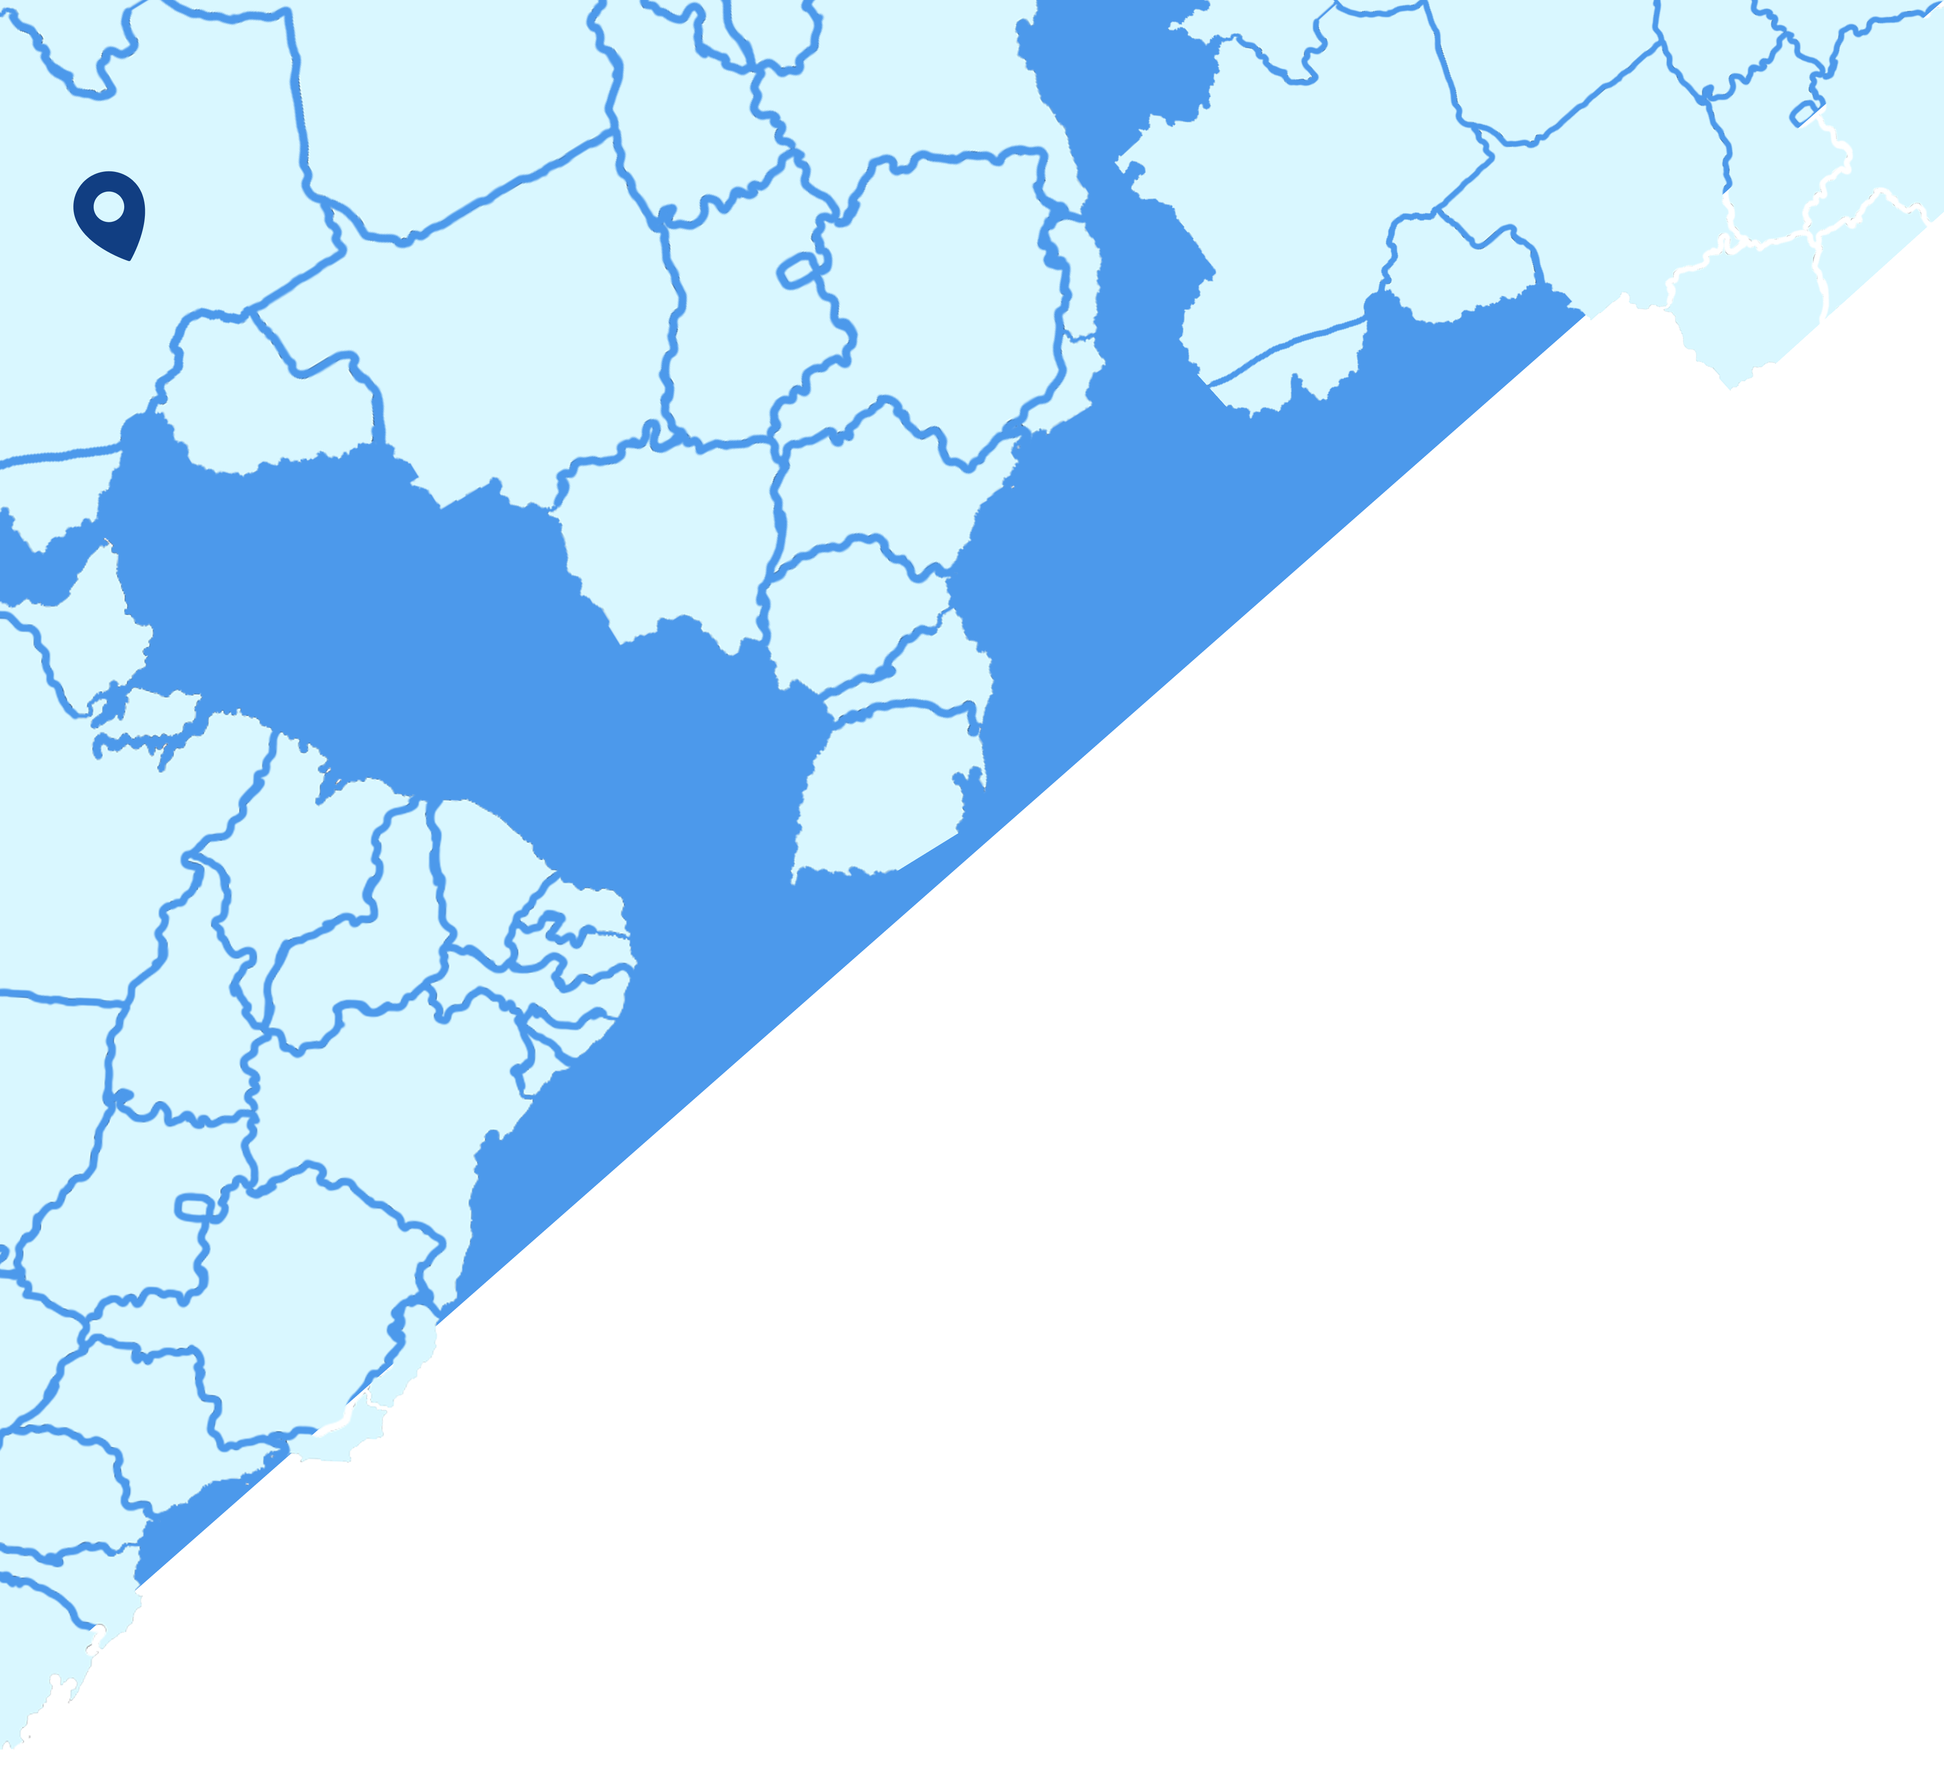
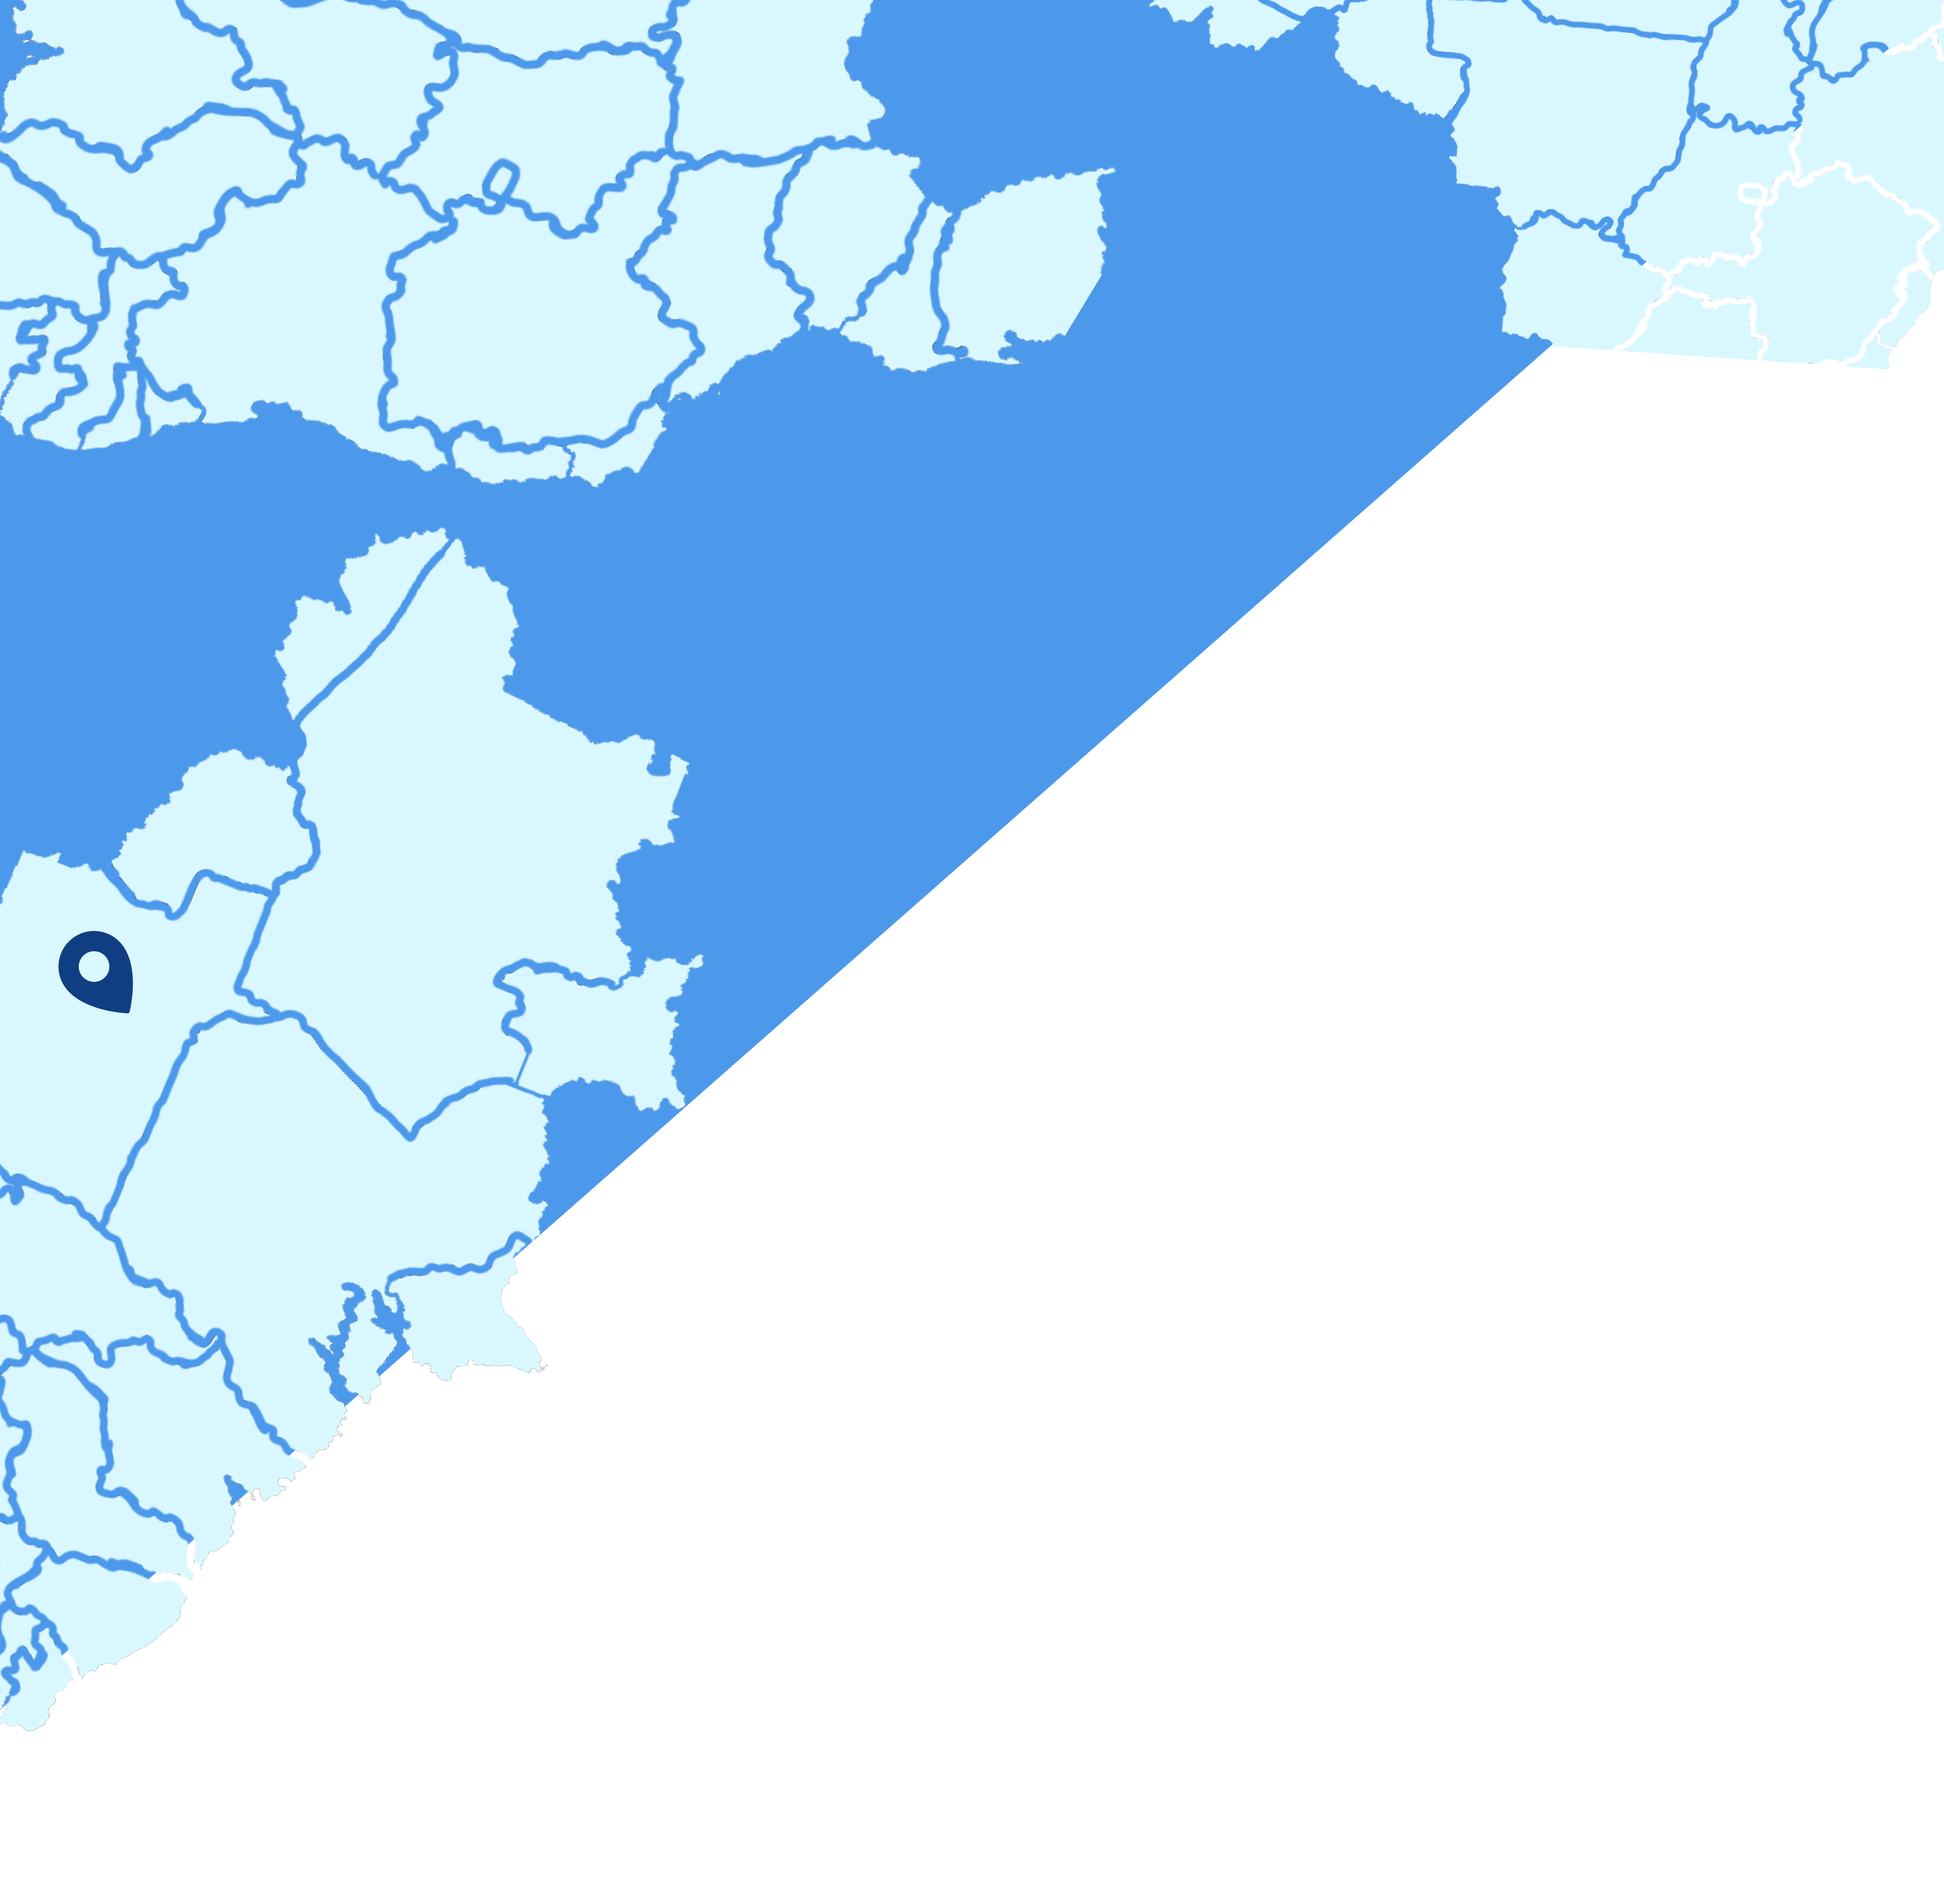
:recycle: refactor: Arrumando e reaproveitando partes da tela Login

Changed region(s): [[0.0, 0.0, 1.0, 0.9987], [0.1875, 0.0, 0.25, 0.0624]]

diff --git a/ServSegFacilities/src/app/login/index.tsx b/ServSegFacilities/src/app/login/index.tsx
@@ -1,59 +1,114 @@
-import React, { useState } from "react";
-import { Alert, Button, Image, StyleSheet, Text, TextInput, View } from "react-native";
-import { H1, H2, Input } from "../../constants/theme";
+import React, { useEffect, useRef, useState } from "react";
+import { Alert, Animated, Pressable, StyleSheet, Text, TextInput, View } from "react-native";
+import { Colors, Font, H1, H2 } from "../../constants/theme";
 
-import Logo from '../../../assets/imgs/ServSeg Escuro.svg'
+import Logo from '../../../assets/imgs/ServSeg Escuro.svg';
+import Biometria from '../../../assets/icons/Biometria.svg';
+import { styles as buttonStyles } from "./login.styles";
 import { useAuth } from "../../contexts/AuthContext";
 import { useRouter } from "expo-router";
-import { autenticacaoService } from "../../services/autenticacaoService";
 
-export default function Login () {
-    const { login } = useAuth();
+const BACKGROUND_IMAGES = [
+    require('../../../assets/imgs/Mapa1.png'),
+    require('../../../assets/imgs/Mapa2.png'),
+];
+
+export default function Login() {
+    //? consts para a animação das imagens.
+    const [currentImageIndex, setCurrentImageIndex] = useState(0);
+    const fadeAnim = useRef(new Animated.Value(1)).current;
+
+    //? consts para o consumo da API.
+    const {login} = useAuth();
     const [email, setEmail] = useState("");
     const [senha, setSenha] = useState("");
     const router = useRouter();
-    
+
     async function acessar(){
-        router.push("/") //! LEMBRAR DE TROCAR DEPOIS
         const emailDigitado = email.trim();
         const senhaDigitada = senha.trim();
 
-        if(emailDigitado || !senhaDigitada){
-            Alert.alert("Login inválido!", "Preencha o e-mail e a senha corretamente.")
+        if(!emailDigitado || !senhaDigitada){
+            Alert.alert("Login Inválido!", "Preencha o e-mail e a senha corretamente.");
             return;
         }
 
         try{
-            await autenticacaoService.login({email: emailDigitado, senha: senhaDigitada})
-            router.replace("/") //! LEMBRAR DE TROCAR DEPOIS
-        } catch(error){
-            Alert.alert("Login inválido!", "E-mail ou senha inválidos.")
+            await login({email: emailDigitado, senha: senhaDigitada})
+            router.replace("/listaRegistro")
+        }catch(error){
+            Alert.alert("Login Inválido!", "E-mail ou senha incorretos/inválidos.");
         }
     }
+
+    //? Controle da animação.
+    useEffect(() => {
+        const interval = setInterval(() => {
+            Animated.timing(fadeAnim, {
+                toValue: 0,
+                duration: 250,
+                useNativeDriver: true,
+            }).start(() => {
+                setCurrentImageIndex((prevIndex) => (prevIndex + 1) % BACKGROUND_IMAGES.length);
+                Animated.timing(fadeAnim, {
+                    toValue: 1,
+                    duration: 500,
+                    useNativeDriver: true,
+                }).start();
+            });
+        }, 3000);
+        return () => clearInterval(interval);
+    }, [fadeAnim]);
+
     return (
-        <View style={{ flex: 1, position: 'relative'}}>
-            <Image source={require('../../../assets/imgs/Mapa1.png')}
-            style={{ width: '100%', height: 375, position: 'absolute' }} resizeMode="contain"/>
-            <View style={styles.logo}>
-                <Logo width={150} />
+        <View style={{ flex: 1, position: 'relative' }}>
+            <Animated.Image
+                source={BACKGROUND_IMAGES[currentImageIndex]}
+                style={{ width: '100%', height: 400, position: 'absolute', opacity: fadeAnim }}
+                resizeMode="cover"
+            />
+            <View style={localStyles.logo}>
+                <Logo width={150} style={{ marginBottom: -100 }} />
                 <Text style={H1}>ServSeg Facilities</Text>
             </View>
-            <View>
-                <Text style={H2}>E-Mail</Text>
-                <TextInput style={Input} placeholder="email@email.com"
-                value={email} onChangeText={setEmail} keyboardType="email-address"/>
-                <Text style={H2}>Senha</Text>
-                <TextInput style={Input} placeholder="********"
-                value={senha} onChangeText={setSenha}/>
+            <View style={localStyles.espacamento}>
+                <Text style={[H2, localStyles.h2]}>E-Mail</Text>
+                <TextInput style={localStyles.input} placeholder="email@email.com"
+                value={email} onChangeText={setEmail} autoCapitalize="none" />
+                <Text style={[H2, localStyles.h2]}>Senha</Text>
+                <TextInput style={localStyles.input} placeholder="********" secureTextEntry
+                value={senha} onChangeText={setSenha} />
+                <Pressable style={({ pressed }) =>
+                [buttonStyles.button, pressed && buttonStyles.buttonPressed]} onPress={acessar}>
+                    <Text style={buttonStyles.ButtonText}>Entrar</Text>
+                </Pressable>
+                <Pressable> //* ⬅ Colocar o onPress da biometria nesse Pressable.
+                    <Biometria width={80} style={{ alignSelf: 'center' }} />
+                </Pressable>
             </View>
         </View>
-    )
+    );
 }
 
-const styles = StyleSheet.create({
-    logo:{
+const localStyles = StyleSheet.create({
+    logo: {
         justifyContent: 'center',
         alignItems: 'center',
-        marginTop: 125
-    }
-})
+        marginTop: 125,
+    },
+    espacamento: {
+        paddingHorizontal: 30,
+    },
+    input: {
+        padding: 10,
+        fontFamily: Font.regular,
+        backgroundColor: Colors.AzulFundo,
+        borderWidth: 2,
+        borderRadius: 10,
+        borderColor: Colors.AzulTexto,
+        marginTop: 5,
+    },
+    h2: {
+        marginTop: 15,
+    },
+});

diff --git a/ServSegFacilities/src/hooks/useAuthLocal.ts b/ServSegFacilities/src/hooks/useAuthLocal.ts
@@ -1,0 +1,86 @@
+//? Lib que vai ultilizar da autenticacaoLocal para fazer login
+import * as LocalAuthentication from 'expo-local-authentication';
+
+//? Lib que vai salvar os dados do usuario para login com autenticacao local
+import * as SecureStore from 'expo-secure-store'
+
+export function useAutLocal() {
+
+    //? Função que vai fazer a verificação e acionar a pergunta se o usuario quer ativar a biometria
+    async function verificarPrimeiroLogin(email: string): Promise<boolean> {
+        const emailSalvo = SecureStore.getItemAsync('UsuarioEmail');
+
+        //? Se não tiver nenhum email salvo
+        if (!emailSalvo)
+            return true;
+
+        //? 1. Converte o emailSalvo em string
+        //? 2. Se o email salvo for igual o email 
+        //? 3. Se o email salvo for diferente do email
+        return String(emailSalvo) === email ? false : true
+    }
+
+    async function adiarAutenticacaoLocal() {
+        //? Pega a data atual
+        const dataAtual = new Date();
+
+        //? Gera uma nova data para o aviso depois de 3 didas
+        const dataNovoAviso = dataAtual.setDate(dataAtual.getDate() + 3)
+
+        SecureStore.setItemAsync('dataAvisoAutenticacaoLocal', String(dataNovoAviso))
+    }
+
+    //? Função que salva os dados do usuario no LocalStore
+    async function salvarDados(email: string, senha: string) {
+        if (!email || !senha) {
+            console.log("Dados inválido!");
+            return;
+        }
+
+        await SecureStore.setItemAsync('UsuarioEmail', email);
+        await SecureStore.setItemAsync('UsuarioSenha', senha);
+    }
+
+    //? Função que resgata os dados de login no LocalStore
+    async function pegarDados() {
+        const email = await SecureStore.getItemAsync('UsuarioEmail');
+        if (!email) {
+            console.log("Nenhum email encontrado");
+            return;
+        }
+
+        const senha = await SecureStore.getItemAsync('UsuarioSenha');
+
+        console.log(`O email é: \n ${email} \nA senha é: \n ${senha}`)
+        return { email, senha };
+    }
+
+    //? Função que ativa a biometria na tela para autenticar o usuário
+    async function autenticar() {
+        const compatibiliade = await LocalAuthentication.hasHardwareAsync();
+        if (!compatibiliade) {
+            console.log("Não tem compatibilidade!")
+            return;
+        }
+
+        const resposta = await LocalAuthentication.authenticateAsync({
+            promptMessage: 'Confirme sua identidade',
+
+            //? FallBack --- Segunda opção de verificação
+            //? Pin, Senha ou demais formas que nao sejam a biometria, faceId ou a facial
+            disableDeviceFallback: true,
+        });
+
+        if (resposta.success) {
+            console.log("Autenticacao concluída com sucesso!")
+            const dados = await pegarDados();
+            console.log(`aqui na funcao certa \n- O email é: ${dados?.email} \n- A senha é ${dados?.senha}`)
+            return dados;
+        } else {
+            console.log("Falha na autenticação:", resposta.error)
+            return null;
+        }
+    }
+
+    return { verificarPrimeiroLogin, adiarAutenticacaoLocal, autenticar, salvarDados };
+}

diff --git a/ServSegFacilities/src/app/login/login.styles.ts b/ServSegFacilities/src/app/login/login.styles.ts
@@ -1,0 +1,22 @@
+import { StyleSheet } from "react-native";
+import { Colors, Container, H1, Button, ButtonText, P, H2 } from "../../constants/theme";
+
+export const styles = StyleSheet.create({
+  button: {
+    ...Button,
+    backgroundColor: Colors.AzulBotao,
+    width: "70%",
+    alignSelf: "center",
+    alignItems: "center",
+    paddingVertical: 5,
+    borderRadius: 5,
+    marginVertical: 20
+  },
+
+  ButtonText,
+
+  buttonPressed: {
+    opacity: 0.7
+  }
+
+})
